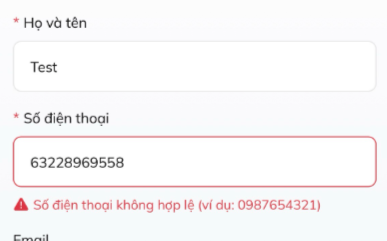
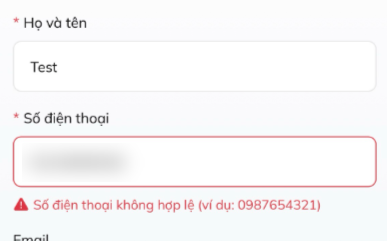
Work page, four case studies and pre-launch QA fixes
Work v3 with case studies, 12 more projects and side projects.
Four case studies in MDX with recreated visuals and per-case OG images.
Blurred a test phone number, stripped .html from contact events,
reserved the Energy audit start screen height (CLS 0).

Claude-Session: https://claude.ai/code/session_014MJr3ynU4HzYZoKNZTUQLt

Changed region(s): [[0.062, 0.639, 0.3411, 0.7261]]

diff --git a/BUILD_LOG.md b/BUILD_LOG.md
@@ -14,3 +14,9 @@ One line per step: what Claude did, what was fixed by hand and why, and which ch
 - 2026-11-03: Added what the canvas only mocked: real "Save as image" (draws the map and the three suggestions onto a canvas and downloads a PNG), "Pick up where you left off?" with Continue and Start fresh (localStorage key `energy-audit:v1`, every read and write in try/catch, the example week is never stored), Umami events `lab_start`, `lab_complete`, `lab_save` with only a mode and an item count, and a no-JavaScript note. Removed `noindex`; rendered `public/og/energy-audit.png`.
 - 2026-11-03: Fixed by Claude while checking against the canvas: dots that share a half of the map now get their own row, because on the canvas logic two labels could sit on top of each other (for example "Weekly report by hand" and "Monday team meeting"); on phones the dots carry numbers with a list under the map instead of labels that would overflow; the start screen is now centered in the tool box instead of leaving empty space below.
 - 2026-11-03: Checks: `astro build` clean; Playwright run-through at 1440 and 390 (errors for long and duplicate names, the 3-item nudge, scoring error, map, suggestions, save download, reload and Continue, Escape on the reset prompt, reset clears storage), example week at 390, 1024 and 1440 (no label overlaps), storage blocked, reduced motion, JavaScript off; no horizontal scroll from 320 to 1440 on every step; axe-core zero issues on every step at 390 and 1440; writing scan clean; no console errors.
+- 2026-11-03: Built the four case studies as MDX (zalo-showroom, car-product-pages, b2b-website-leads, dyno-requirements), copy taken from the published canvas pages and case-studies.md §3 to §3d, headlines from labels-and-headings.md §4, next-case chain Zalo, car pages, website, Dyno, back to Zalo. Recreated visuals became accessible HTML components (Flow, EntryMap, ShareBars, Sitemap, DataTable, UatTables, RequirementCard, PhoneRow), each captioned "Recreated" where the canvas says so. Rendered one OG image per case with scripts/og/render-og.cjs.
+- 2026-11-03: Built /work from work3data.py and the Work canvas artboards: anchor pills, four case rows (first one in the sun-soft band), twelve project rows in three groups plus Side projects, all as details/summary so they open without JavaScript. Data lives in src/data/work.ts. A small script opens the row named in the URL hash, so /work#cost-tool from the car case lands on the open row. The lead engine row uses a recreated n8n pipeline and lead card instead of screenshots.
+- 2026-11-03: Privacy fix by Claude: the canvas website case used a homepage mockup and a dataset page that still showed a real prospect's company name. The site uses the blurred homepage mockup instead, and Claude blurred the company field on the dataset page before adding it.
+- 2026-11-03: Fixes after QA: wide case figures overflowed by 68px at exactly 1100px, so the 200px bleed is now capped at the space left before the gutter. On phones the case header now matches the canvas: stage pills fit on one row, tiles sit two by two with the third full width, and "Skip to the results" is full width. The lead card got its sand frame back, and Work rows got slightly smaller type on phones.
+- 2026-11-03: Checks: npm run build clean; screenshots of /work and the four cases at 390px and 1440px compared side by side with the canvas; no horizontal scroll at any of 11 widths from 320px to 1440px; axe 0 issues on all 10 page and width pairs; 300 internal links and anchors resolve; writing scan clean apart from literal uses (site "navigation", the live menu label "Talk to our experts", "automated journeys" as the CRM term) and arrows inside the Dyno flow diagram.
+- 2026-11-03: Full-site QA before launch. Fixed by Claude: (1) a test phone number was readable in the Zalo form-error screenshot; blurred it. (2) The footer's contact_click event sent the page path with ".html"; now stripped like the canonical URL. (3) Lighthouse showed a layout shift of 0.19 on /lab/energy-audit because the tool renders after load; the empty tool box now reserves the start screen's height (CLS 0). Checks: build clean; no horizontal scroll at 11 widths from 320 to 1440 on all 10 pages; axe-core zero issues on all 10 pages at 390 and 1440; no broken internal links; writing scan clean apart from literal terms (navigation, "Talk to our experts", CleverTap journeys) and arrows inside the Dyno flow diagram; Lighthouse mobile on 10 pages: performance 98 to 100, accessibility, best practices and SEO 100.
